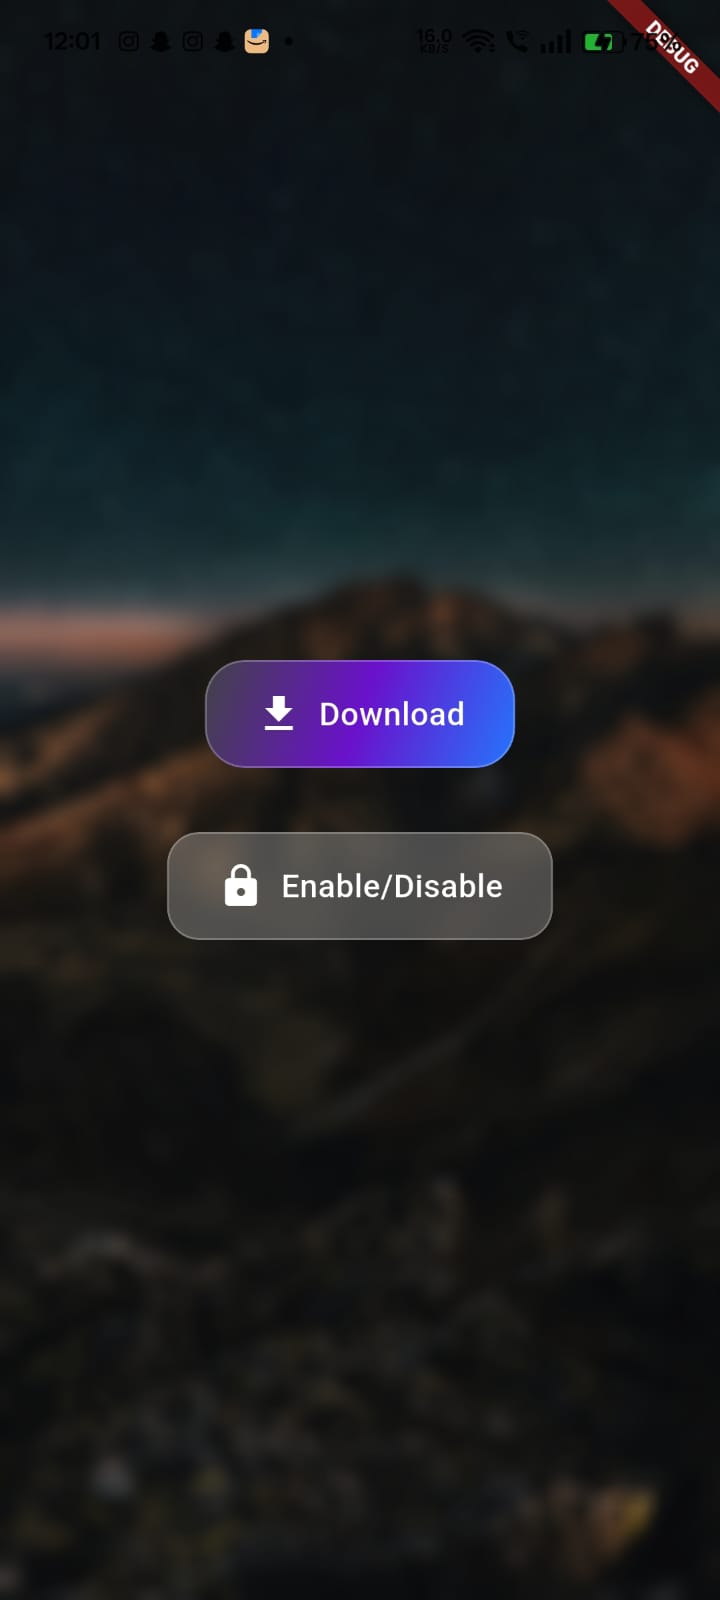
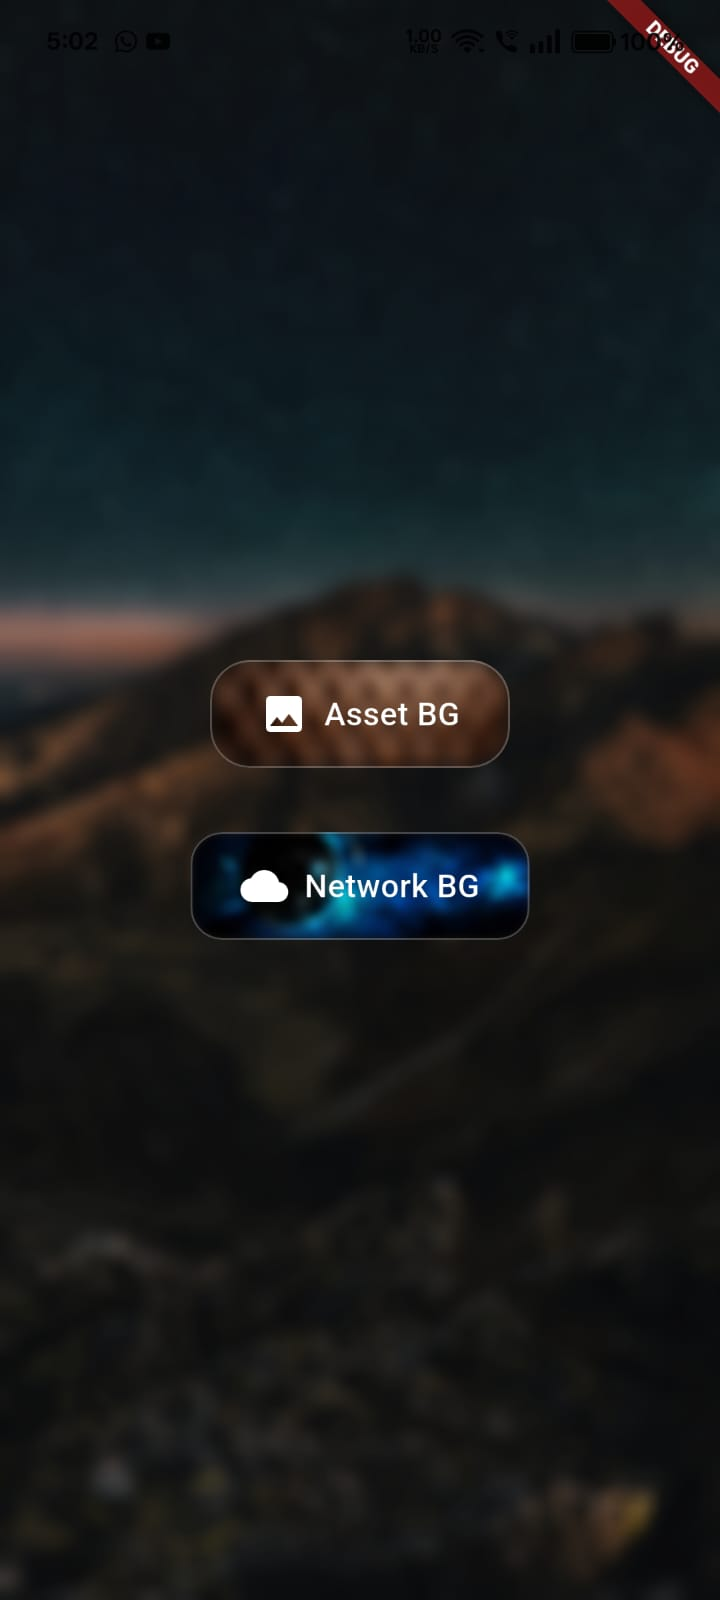
Add backgroundImage support to GlassAnimatedButton (asset & network)

diff --git a/glass_animated_button/lib/glass_animated_button.dart b/glass_animated_button/lib/glass_animated_button.dart
@@ -56,6 +56,9 @@ class GlassAnimatedButton extends StatefulWidget {
   /// Whether to enable haptic feedback on tap.
   final bool enableHapticFeedback;
 
+  /// Optional background image for the button (asset, network, etc.).
+  final ImageProvider? backgroundImage;
+
   /// Creates a [GlassAnimatedButton] with customizable glass effect and animation.
   const GlassAnimatedButton({
     super.key,
@@ -74,6 +77,7 @@ class GlassAnimatedButton extends StatefulWidget {
     this.boxShadow,
     this.gradient,
     this.enableHapticFeedback = false,
+    this.backgroundImage,
   });
 
   @override
@@ -120,6 +124,7 @@ class _GlassAnimatedButtonState extends State<GlassAnimatedButton>
       }
       widget.onPressed();
     }
+
     return GestureDetector(
       onTap: effectiveDisabled ? null : handleTap,
       onTapDown: effectiveDisabled ? null : _onTapDown,
@@ -152,51 +157,63 @@ class _GlassAnimatedButtonState extends State<GlassAnimatedButton>
               opacity: effectiveDisabled ? 0.6 : 1.0,
               child: ClipRRect(
                 borderRadius: BorderRadius.circular(widget.borderRadius),
-                child: BackdropFilter(
-                  filter: ImageFilter.blur(
-                    sigmaX: widget.blur,
-                    sigmaY: widget.blur,
-                  ),
-                  child: Container(
-                    padding: widget.padding,
-                    decoration: BoxDecoration(
-                      color: widget.gradient == null ? widget.color : null,
-                      gradient: widget.gradient,
-                      borderRadius: BorderRadius.circular(widget.borderRadius),
-                      border: Border.all(color: Colors.white24),
-                      boxShadow: widget.boxShadow,
+                child: Stack(
+                  fit: StackFit.passthrough,
+                  children: [
+                    if (widget.backgroundImage != null)
+                      Positioned.fill(
+                        child: Image(
+                          image: widget.backgroundImage!,
+                          fit: BoxFit.cover,
+                        ),
+                      ),
+                    BackdropFilter(
+                      filter: ImageFilter.blur(
+                        sigmaX: widget.blur,
+                        sigmaY: widget.blur,
+                      ),
+                      child: Container(
+                        padding: widget.padding,
+                        decoration: BoxDecoration(
+                          color: widget.gradient == null && widget.backgroundImage == null ? widget.color : null,
+                          gradient: widget.gradient,
+                          borderRadius: BorderRadius.circular(widget.borderRadius),
+                          border: Border.all(color: Colors.white24),
+                          boxShadow: widget.boxShadow,
+                        ),
+                        child: widget.isLoading
+                            ? SizedBox(
+                                height: 20,
+                                width: 20,
+                                child: CircularProgressIndicator(
+                                  valueColor: AlwaysStoppedAnimation<Color>(
+                                    widget.textStyle?.color ?? Colors.white,
+                                  ),
+                                  strokeWidth: 2.2,
+                                ),
+                              )
+                            : Row(
+                                mainAxisSize: MainAxisSize.min,
+                                mainAxisAlignment: MainAxisAlignment.center,
+                                children: [
+                                  if (widget.icon != null) ...[
+                                    widget.icon!,
+                                    const SizedBox(width: 8),
+                                  ],
+                                  Text(
+                                    widget.text,
+                                    style: widget.textStyle ??
+                                        const TextStyle(
+                                          color: Colors.white,
+                                          fontSize: 16,
+                                          fontWeight: FontWeight.w500,
+                                        ),
+                                  ),
+                                ],
+                              ),
+                      ),
                     ),
-                    child: widget.isLoading
-                        ? SizedBox(
-                            height: 20,
-                            width: 20,
-                            child: CircularProgressIndicator(
-                              valueColor: AlwaysStoppedAnimation<Color>(
-                                widget.textStyle?.color ?? Colors.white,
-                              ),
-                              strokeWidth: 2.2,
-                            ),
-                          )
-                        : Row(
-                            mainAxisSize: MainAxisSize.min,
-                            mainAxisAlignment: MainAxisAlignment.center,
-                            children: [
-                              if (widget.icon != null) ...[
-                                widget.icon!,
-                                const SizedBox(width: 8),
-                              ],
-                              Text(
-                                widget.text,
-                                style: widget.textStyle ??
-                                    const TextStyle(
-                                      color: Colors.white,
-                                      fontSize: 16,
-                                      fontWeight: FontWeight.w500,
-                                    ),
-                              ),
-                            ],
-                          ),
-                  ),
+                  ],
                 ),
               ),
             ),

diff --git a/glass_animated_button/example/lib/main.dart b/glass_animated_button/example/lib/main.dart
@@ -39,49 +39,41 @@ class _MyAppState extends State<MyApp> {
                 mainAxisSize: MainAxisSize.min,
                 children: [
                   GlassAnimatedButton(
-                    text: "Download",
-                    icon: Icon(Icons.download, color: Colors.white),
+                    text: "Asset BG",
+                    icon: Icon(Icons.image, color: Colors.white),
                     onPressed: () async {
                       setState(() => _loading = true);
                       await Future.delayed(const Duration(seconds: 2));
                       setState(() => _loading = false);
                     },
-                    blur: 10,
+                    blur: 6,
                     borderRadius: 20,
                     color: Colors.white.withOpacity(0.15),
                     animationDuration: const Duration(milliseconds: 200),
                     animationCurve: Curves.easeInOut,
                     boxShadow: [
                       BoxShadow(
-                        color: Colors.black.withOpacity(0.2),
+                        color: Colors.black.withOpacity(0.1),
                         blurRadius: 16,
                         offset: Offset(0, 6),
                       ),
                     ],
-                    gradient: LinearGradient(
-                      colors: [
-                        Color(0xFF414345),
-                        Color(0xFF6a11cb),
-                        Color(0xFF2575fc),
-                      ],
-                      begin: Alignment.topLeft,
-                      end: Alignment.bottomRight,
-                    ),
+                   
                     enableHapticFeedback: true,
                     isLoading: _loading,
                     isDisabled: _disabled,
+                    backgroundImage: AssetImage('assets/btn_bg.jpg'),
                   ),
                   const SizedBox(height: 32),
                   GlassAnimatedButton(
-                    text: _disabled ? "Disabled" : "Enable/Disable",
+                    text: "Network BG",
+                    icon: Icon(Icons.cloud, color: Colors.white),
                     onPressed: () => setState(() => _disabled = !_disabled),
-                    blur: 8,
+                    blur: 3,
                     borderRadius: 16,
                     color: Colors.white24,
                     isDisabled: _loading,
-                    icon: Icon(Icons.lock, color: Colors.white),
-                  ),
-                ],
+                    backgroundImage: NetworkImage("https://wallpaper-mania.com/wp-content/uploads/2018/09/High_resolution_wallpaper_background_ID_77701901704.jpg"),)],
               ),
             ),
           ],

diff --git a/glass_animated_button/README.md b/glass_animated_button/README.md
@@ -1,5 +1,7 @@
 # glass_animated_button
 
+![Screenshot](ss.jpg)
+
 A beautiful animated button with a frosted glass (glassmorphism) effect.  
 You can customize text, blur, color, animation, gradients, shadow, and more.
 
@@ -13,34 +15,23 @@ You can customize text, blur, color, animation, gradients, shadow, and more.
 - Loading and disabled states
 - Haptic feedback on tap (optional)
 - Accessibility: semantics and keyboard support
+- **NEW:** Background image support (asset or network)
 
 ## Usage
 
 ```dart
+// Asset image background
 GlassAnimatedButton(
-  text: "Click Me",
-  onPressed: () {
-    print("Tapped!");
-  },
-  blur: 10,
-  borderRadius: 20,
-  color: Colors.white.withOpacity(0.2),
-  animationDuration: Duration(milliseconds: 200),
-  animationCurve: Curves.easeInOut,
-  icon: Icon(Icons.touch_app, color: Colors.white),
-  boxShadow: [
-    BoxShadow(
-      color: Colors.black.withOpacity(0.2),
-      blurRadius: 16,
-      offset: Offset(0, 6),
-    ),
-  ],
-  gradient: LinearGradient(
-    colors: [Colors.blueAccent.withOpacity(0.3), Colors.purpleAccent.withOpacity(0.3)],
-  ),
-  enableHapticFeedback: true,
-  isLoading: false,
-  isDisabled: false,
+  text: "With Asset BG",
+  onPressed: () {},
+  backgroundImage: AssetImage('assets/bg.jpg'),
+)
+
+// Network image background
+GlassAnimatedButton(
+  text: "With Network BG",
+  onPressed: () {},
+  backgroundImage: NetworkImage('https://images.unsplash.com/photo-1506744038136-46273834b3fb?auto=format&fit=crop&w=400&q=80'),
 )
 ```
 
@@ -59,12 +50,5 @@ GlassAnimatedButton(
 - Fully accessible with screen readers
 - Keyboard support (Enter/Space)
 
-
-# glass_animated_button
-![Screenshot](ss.jpg)
-A beautiful animated button with a frosted glass (glassmorphism) effect.  
-...
-
 ---
 See the `example/` for a full demo.
-

diff --git a/glass_animated_button/CHANGELOG.md b/glass_animated_button/CHANGELOG.md
@@ -1,4 +1,4 @@
-## 1.0.4
+## 1.0.7
 
 - Customizable animation duration and curve
 - Loading and disabled state support
@@ -6,3 +6,7 @@
 - Gradient background support
 - Optional haptic feedback on tap
 - Accessibility improvements (semantics, keyboard support)
+
+## 1.2.0
+
+- Added backgroundImage parameter to GlassAnimatedButton (supports asset and network images as button background)
